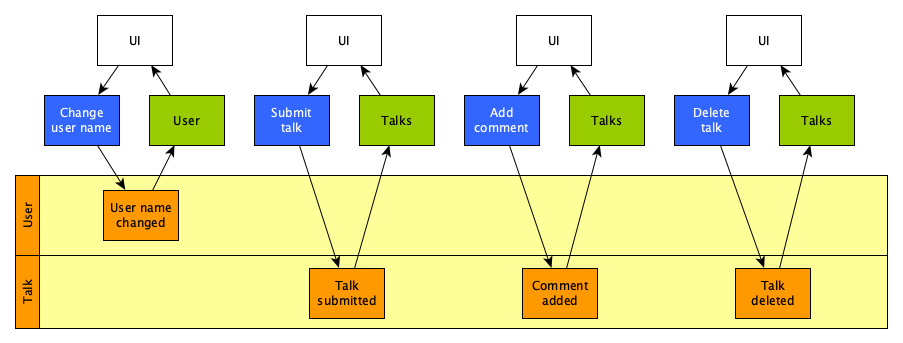
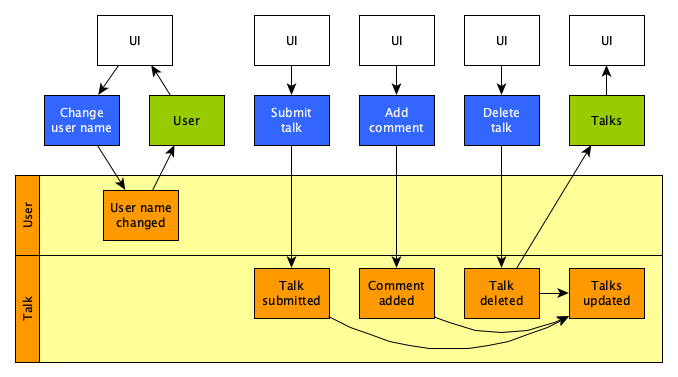
refactor: align names in domain and cource

diff --git a/tests/unit/client-services.test.js b/tests/unit/client-services.test.js
@@ -2,15 +2,15 @@ import { beforeEach, describe, expect, jest, test } from '@jest/globals';
 
 import {
   deleteTalk,
-  newTalk,
+  newTalkUpdated,
   pollTalks,
-  talkUpdated,
+  submitTalk,
 } from '../../public/js/application/client-services.js';
 import { initialState, reducer } from '../../public/js/domain/reducer.js';
 import { ConfigurableResponses } from '../configurable-responses.js';
 import { Store } from '../../public/js/domain/store.js';
 
-describe('actions', () => {
+describe('client services', () => {
   let store;
 
   beforeEach(() => {
@@ -71,9 +71,9 @@ describe('actions', () => {
     });
   });
 
-  describe('talk updated', () => {
-    test('updates a talk property ', async () => {
-      await talkUpdated('title', 'foobar', store);
+  describe('new talk updated', () => {
+    test('updates a property of the new talk', async () => {
+      await newTalkUpdated('title', 'foobar', store);
 
       expect(store.getState()).toEqual({
         talks: [],
@@ -82,13 +82,13 @@ describe('actions', () => {
     });
   });
 
-  describe('new talk', () => {
+  describe('submit talk', () => {
     test('submits talk', async () => {
-      await talkUpdated('title', 'foobar', store);
-      await talkUpdated('summary', 'lorem ipsum', store);
+      await newTalkUpdated('title', 'foobar', store);
+      await newTalkUpdated('summary', 'lorem ipsum', store);
       const api = new FakeApi();
 
-      await newTalk(store, api);
+      await submitTalk(store, api);
 
       expect(api.putTalk).nthCalledWith(1, {
         title: 'foobar',
@@ -121,7 +121,11 @@ describe('actions', () => {
       const listener = jest.fn();
       store.subscribe(listener);
 
-      store.dispatch({ type: 'talk-updated', name: 'title', value: 'foobar' });
+      store.dispatch({
+        type: 'new-talk-updated',
+        name: 'title',
+        value: 'foobar',
+      });
 
       expect(listener).toBeCalledTimes(1);
     });

diff --git a/public/js/ui/components.js b/public/js/ui/components.js
@@ -3,8 +3,8 @@ import { html, render } from '../vendor.js';
 import { api, store } from '../app.config.js';
 import {
   deleteTalk,
-  newTalk,
-  talkUpdated,
+  newTalkUpdated,
+  submitTalk,
 } from '../application/client-services.js';
 
 class Talks extends HTMLElement {
@@ -40,7 +40,9 @@ class Talks extends HTMLElement {
             <section class="talk">
               <h2>
                 ${talk.title}
-                <button @click=${(_) => this.#deleteTalk(talk)}>Delete</button>
+                <button @click=${(_) => this.#onClickDelete(talk)}>
+                  Delete
+                </button>
               </h2>
               <p>${talk.summary}</p>
             </section>
@@ -51,7 +53,7 @@ class Talks extends HTMLElement {
     render(template, this);
   }
 
-  #deleteTalk(talk) {
+  #onClickDelete(talk) {
     deleteTalk(talk.title, api);
   }
 }
@@ -61,7 +63,7 @@ window.customElements.define('s-talks', Talks);
 class TalkForm extends HTMLElement {
   connectedCallback() {
     const template = html`
-      <form @submit=${(e) => this.#newTalk(e)}>
+      <form @submit=${(e) => this.onSubmit(e)}>
         <h3>Submit a Talk</h3>
         <label
           >Title:
@@ -88,12 +90,12 @@ class TalkForm extends HTMLElement {
   }
 
   /** @param {Event} event  */
-  #newTalk(event) {
+  onSubmit(event) {
     event.preventDefault();
     const form = /** @type {HTMLFormElement} */ (event.target);
     form.reportValidity();
     if (form.checkValidity()) {
-      newTalk(store, api);
+      submitTalk(store, api);
       form.reset();
     }
   }
@@ -101,7 +103,7 @@ class TalkForm extends HTMLElement {
   /** @param {Event} event  */
   #onUserInput(event) {
     const { name, value } = /** @type {HTMLInputElement} */ (event.target);
-    talkUpdated(name, value, store);
+    newTalkUpdated(name, value, store);
   }
 }
 

diff --git a/src/ui/express-app.js b/src/ui/express-app.js
@@ -45,14 +45,14 @@ export class ExpressApp {
 
       const title = req.params.title;
       await submitTalk({ title, summary: talk.summary }, repository);
-      this.#talkSubmitted(repository);
+      this.#talksUpdated(repository);
       res.status(204).send();
     });
 
     this.#app.delete('/api/talks/:title', async (req, res) => {
       const title = req.params.title;
       await deleteTalk(title, repository);
-      this.#talkDeleted(repository);
+      this.#talksUpdated(repository);
       res.status(204).send();
     });
   }
@@ -77,7 +77,7 @@ export class ExpressApp {
     };
   }
 
-  #waitForChange(time) {
+  async #waitForChange(time) {
     return new Promise((resolve) => {
       this.#waiting.push(resolve);
       setTimeout(async () => {
@@ -91,15 +91,7 @@ export class ExpressApp {
     });
   }
 
-  async #talkSubmitted(repository) {
-    this.#updated(repository);
-  }
-
-  async #talkDeleted(repository) {
-    this.#updated(repository);
-  }
-
-  async #updated(repository) {
+  async #talksUpdated(repository) {
     this.#version++;
     const response = await this.#talkResponse(repository);
     this.#waiting.forEach((resolve) => resolve(response));

diff --git a/public/js/application/client-services.js b/public/js/application/client-services.js
@@ -1,3 +1,11 @@
+export async function submitTalk(store, api) {
+  await api.putTalk(store.getState().talk);
+}
+
+export async function deleteTalk(title, api) {
+  await api.deleteTalk(title);
+}
+
 export async function pollTalks(store, api, runs = -1) {
   let tag;
   for (let i = 0; runs === -1 || i < runs; runs === -1 ? 0 : i++) {
@@ -13,18 +21,10 @@ export async function pollTalks(store, api, runs = -1) {
     }
 
     tag = response.tag;
-    store.dispatch({ type: 'set-talks', talks: response.talks });
+    store.dispatch({ type: 'talks-updated', talks: response.talks });
   }
 }
 
-export async function talkUpdated(name, value, store) {
-  store.dispatch({ type: 'talk-updated', name, value });
-}
-
-export async function newTalk(store, api) {
-  await api.putTalk(store.getState().talk);
-}
-
-export async function deleteTalk(title, api) {
-  await api.deleteTalk(title);
+export async function newTalkUpdated(name, value, store) {
+  store.dispatch({ type: 'new-talk-updated', name, value });
 }

diff --git a/src/application/server-services.js b/src/application/server-services.js
@@ -2,10 +2,10 @@ export async function submitTalk(talk, repository) {
   await repository.add(talk);
 }
 
-export async function getTalks(repository) {
-  return await repository.findAll();
-}
-
 export async function deleteTalk(title, repository) {
   await repository.remove(title);
+}
+
+export async function getTalks(repository) {
+  return await repository.findAll();
 }

diff --git a/public/js/domain/reducer.js b/public/js/domain/reducer.js
@@ -5,9 +5,9 @@ export const initialState = {
 
 export function reducer(state, action) {
   switch (action.type) {
-    case 'set-talks':
+    case 'talks-updated':
       return { ...state, talks: action.talks };
-    case 'talk-updated':
+    case 'new-talk-updated':
       return {
         ...state,
         talk: { ...state.talk, [action.name]: action.value },

diff --git a/tests/unit/server-services.test.js b/tests/unit/server-services.test.js
@@ -18,7 +18,7 @@ describe('services', () => {
     });
   });
 
-  describe('query talks', () => {
+  describe('get talks', () => {
     test('returns list of talks', async () => {
       const repository = new FakeRepository([
         { title: 'foobar', summary: 'lorem ipsum' },
